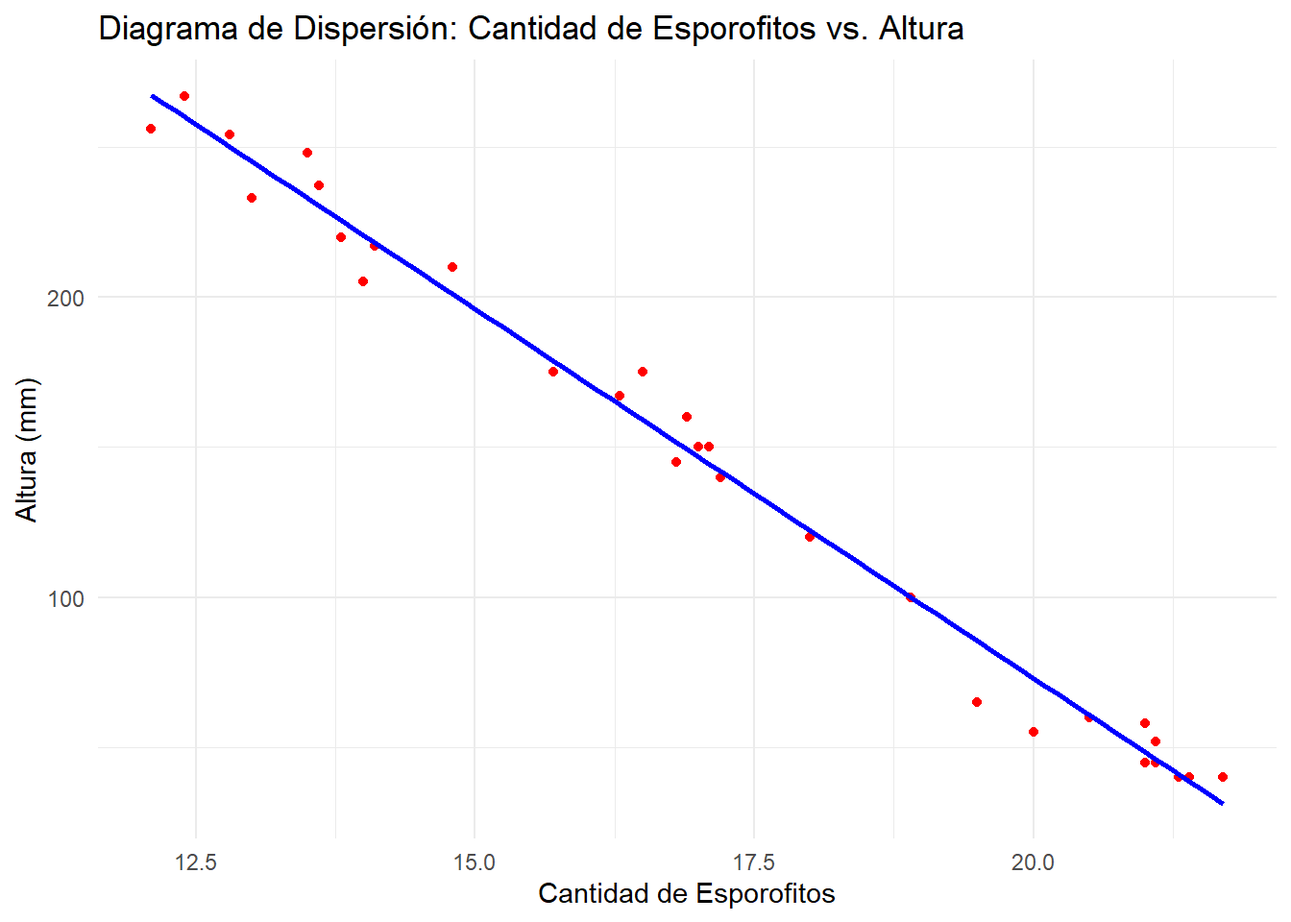
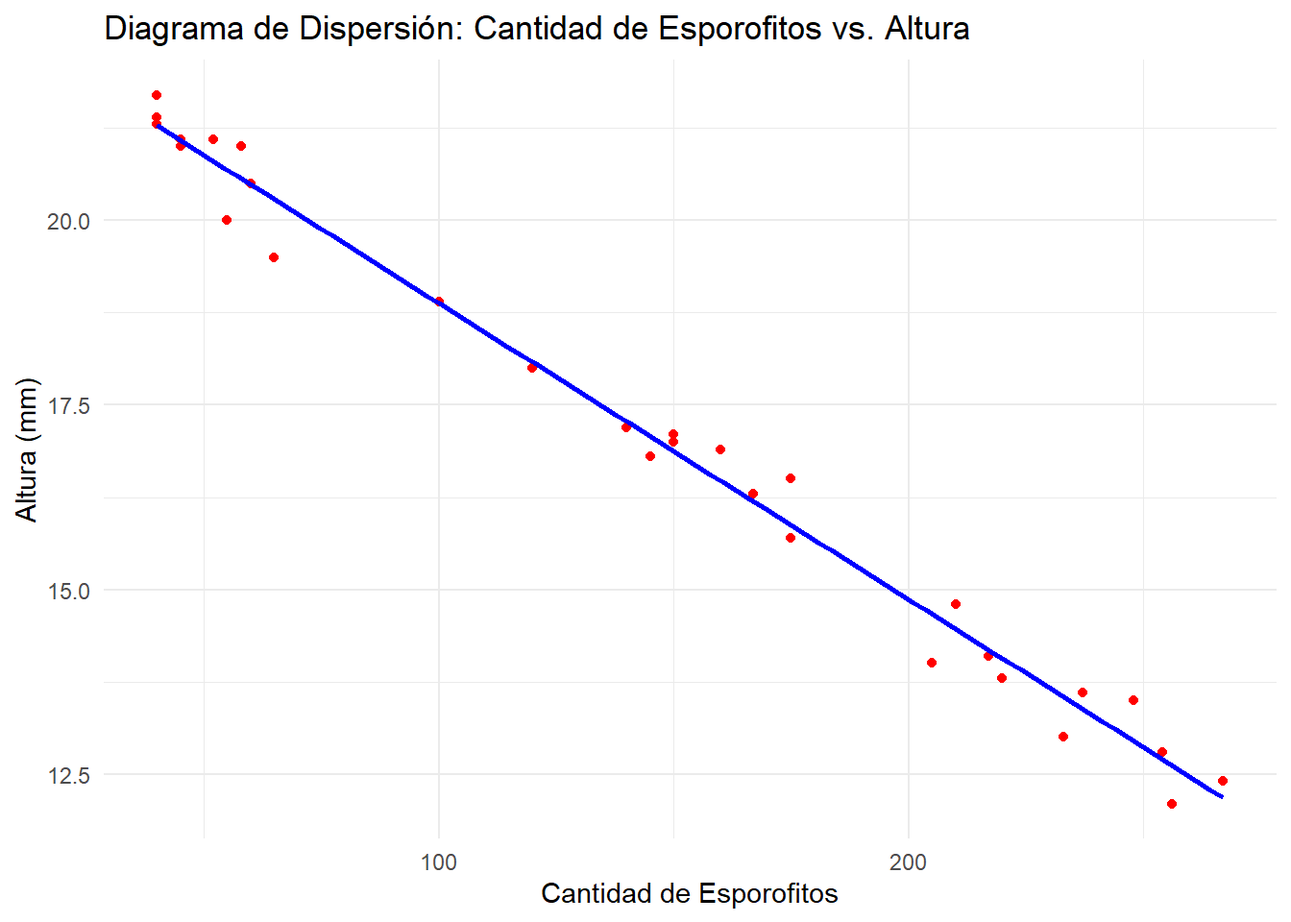
correccion ejemplo de regresión y enlace al repositorio añadidio

diff --git a/_book/regresion_simple.html b/_book/regresion_simple.html
@@ -601,7 +601,7 @@ pre > code.sourceCode > span > a:first-child::before { text-decoration: underlin
 <p>El presente ejemplo práctico expone el procedimiento para realizar un análisis de regresión lineal simple utilizando un conjunto de datos experimentales sobre esporofitos. Los datos fueron recolectados en el laboratorio de cultivo de tejidos de la Facultad de Agronomía de la Universidad de San Carlos de Guatemala, en el marco de un estudio enfocado en la reproducción in vitro del helecho conocido como calahuala (<em>Phlebodium pseudoaureum</em> (Cav.) Lellinger).</p>
 <p>En el experimento, se midió la altura de cada esporofito y se registró la cantidad de esporofitos germinados en 30 frascos, todos ellos cultivados en medio Murashige y Skoog. La información analizada corresponde a los resultados obtenidos bajo estas condiciones controladas. Este análisis toma como referencia la investigación de Rosales Castillo (2005), quien desarrolló un protocolo de micropropagación de calahuala empleando tres tipos de explantes y diferentes medios de cultivo in vitro.</p>
 <p>El objetivo principal de este análisis es evaluar la relación entre la cantidad de esporofitos germinados (variable independiente) y la altura de los esporofitos (variable dependiente), empleando la regresión lineal simple como herramienta estadística. Además de ajustar un modelo que describa esta relación, se busca verificar rigurosamente los supuestos estadísticos que garantizan la validez de las inferencias obtenidas.</p>
-<p><strong>Acceso a recursos:</strong> El script completo con los ejemplos desarrollados y la base de datos sobre esporofitos están disponibles para su consulta y descarga en el siguiente repositorio: <code>[ADJUNTAR ACA EL ENLACE AL REPOSITORIO]</code></p>
+<p><strong>Acceso a recursos:</strong> El script completo con los ejemplos desarrollados y la base de datos sobre esporofitos están disponibles para su consulta y descarga en el siguiente repositorio: <a href="https://github.com/Ludwing-MJ/Reg_Lineal_EJ.git" class="uri">https://github.com/Ludwing-MJ/Reg_Lineal_EJ.git</a></p>
 </section>
 <section id="preparación-del-entorno-en-r" class="level2" data-number="20.3">
 <h2 data-number="20.3" class="anchored" data-anchor-id="preparación-del-entorno-en-r"><span class="header-section-number">20.3</span> Preparación del Entorno en R</h2>
@@ -681,15 +681,15 @@ pre > code.sourceCode > span > a:first-child::before { text-decoration: underlin
 <span id="cb10-2"><a href="#cb10-2" aria-hidden="true" tabindex="-1"></a>datos_esporofitos <span class="ot">&lt;-</span> <span class="fu">na.omit</span>(datos_esporofitos)</span>
 <span id="cb10-3"><a href="#cb10-3" aria-hidden="true" tabindex="-1"></a></span>
 <span id="cb10-4"><a href="#cb10-4" aria-hidden="true" tabindex="-1"></a><span class="co"># Renombrar columnas para facilitar el análisis (si es necesario)</span></span>
-<span id="cb10-5"><a href="#cb10-5" aria-hidden="true" tabindex="-1"></a><span class="fu">names</span>(datos_esporofitos) <span class="ot">&lt;-</span> <span class="fu">c</span>(<span class="st">"frasco"</span>, <span class="st">"altura"</span>, <span class="st">"cantidad"</span>)</span>
+<span id="cb10-5"><a href="#cb10-5" aria-hidden="true" tabindex="-1"></a><span class="fu">names</span>(datos_esporofitos) <span class="ot">&lt;-</span> <span class="fu">c</span>(<span class="st">"frasco"</span>, <span class="st">"cantidad"</span>, <span class="st">"altura"</span>)</span>
 <span id="cb10-6"><a href="#cb10-6" aria-hidden="true" tabindex="-1"></a></span>
 <span id="cb10-7"><a href="#cb10-7" aria-hidden="true" tabindex="-1"></a><span class="co"># Verificar la estructura final de los datos</span></span>
 <span id="cb10-8"><a href="#cb10-8" aria-hidden="true" tabindex="-1"></a><span class="fu">str</span>(datos_esporofitos)</span></code><button title="Copiar al portapapeles" class="code-copy-button"><i class="bi"></i></button></pre></div>
 <div class="cell-output cell-output-stdout">
 <pre><code>tibble [30 × 3] (S3: tbl_df/tbl/data.frame)
  $ frasco  : num [1:30] 1 2 3 4 5 6 7 8 9 10 ...
- $ altura  : num [1:30] 40 45 60 55 58 40 52 65 45 40 ...
- $ cantidad: num [1:30] 21.4 21 20.5 20 21 21.7 21.1 19.5 21.1 21.3 ...</code></pre>
+ $ cantidad: num [1:30] 40 45 60 55 58 40 52 65 45 40 ...
+ $ altura  : num [1:30] 21.4 21 20.5 20 21 21.7 21.1 19.5 21.1 21.3 ...</code></pre>
 </div>
 </div>
 <p>Este conjunto de códigos prepara el entorno para realizar el análisis de regresión lineal con los datos de esporofitos de calahuala, siguiendo las mejores prácticas en análisis de datos con R (Grolemund &amp; Wickham, 2017). La estructura organizada facilita la reproducibilidad del análisis y permite un manejo eficiente de los datos provenientes del estudio de micropropagación realizado por Rosales Castillo (2005).</p>
@@ -705,17 +705,17 @@ pre > code.sourceCode > span > a:first-child::before { text-decoration: underlin
 <div class="sourceCode cell-code" id="cb12"><pre class="sourceCode r code-with-copy"><code class="sourceCode r"><span id="cb12-1"><a href="#cb12-1" aria-hidden="true" tabindex="-1"></a><span class="co"># Calcular estadísticas descriptivas</span></span>
 <span id="cb12-2"><a href="#cb12-2" aria-hidden="true" tabindex="-1"></a>descripcion <span class="ot">&lt;-</span> <span class="fu">describe</span>(datos_esporofitos)</span>
 <span id="cb12-3"><a href="#cb12-3" aria-hidden="true" tabindex="-1"></a></span>
-<span id="cb12-4"><a href="#cb12-4" aria-hidden="true" tabindex="-1"></a><span class="co"># Imprimir las estadísticas descriptivas</span></span>
+<span id="cb12-4"><a href="#cb12-4" aria-hidden="true" tabindex="-1"></a><span class="co"># Visualizar las estadísticas descriptivas</span></span>
 <span id="cb12-5"><a href="#cb12-5" aria-hidden="true" tabindex="-1"></a><span class="fu">print</span>(descripcion)</span></code><button title="Copiar al portapapeles" class="code-copy-button"><i class="bi"></i></button></pre></div>
 <div class="cell-output cell-output-stdout">
 <pre><code>         vars  n  mean    sd median trimmed    mad  min   max range  skew
 frasco      1 30  15.5  8.80  15.50   15.50  11.12  1.0  30.0  29.0  0.00
-altura      2 30 144.3 78.95 150.00  143.00 124.54 40.0 267.0 227.0 -0.01
-cantidad    3 30  17.1  3.19  16.95   17.14   4.60 12.1  21.7   9.6  0.00
+cantidad    2 30 144.3 78.95 150.00  143.00 124.54 40.0 267.0 227.0 -0.01
+altura      3 30  17.1  3.19  16.95   17.14   4.60 12.1  21.7   9.6  0.00
          kurtosis    se
 frasco      -1.32  1.61
-altura      -1.53 14.41
-cantidad    -1.48  0.58</code></pre>
+cantidad    -1.53 14.41
+altura      -1.48  0.58</code></pre>
 </div>
 </div>
 <p>La función <code>describe()</code> proporciona las siguientes estadísticas para cada variable:</p>
@@ -744,7 +744,7 @@ cantidad    -1.48  0.58</code></pre>
 <div class="cell">
 <div class="sourceCode cell-code" id="cb14"><pre class="sourceCode r code-with-copy"><code class="sourceCode r"><span id="cb14-1"><a href="#cb14-1" aria-hidden="true" tabindex="-1"></a><span class="co"># Histograma de la altura de los esporofitos</span></span>
 <span id="cb14-2"><a href="#cb14-2" aria-hidden="true" tabindex="-1"></a><span class="fu">ggplot</span>(datos_esporofitos, <span class="fu">aes</span>(<span class="at">x =</span> altura)) <span class="sc">+</span></span>
-<span id="cb14-3"><a href="#cb14-3" aria-hidden="true" tabindex="-1"></a>  <span class="fu">geom_histogram</span>(<span class="at">binwidth =</span> <span class="dv">15</span>, <span class="at">fill =</span> <span class="st">"skyblue"</span>, <span class="at">color =</span> <span class="st">"black"</span>) <span class="sc">+</span></span>
+<span id="cb14-3"><a href="#cb14-3" aria-hidden="true" tabindex="-1"></a>  <span class="fu">geom_histogram</span>(<span class="at">binwidth =</span> <span class="dv">1</span>, <span class="at">fill =</span> <span class="st">"skyblue"</span>, <span class="at">color =</span> <span class="st">"black"</span>) <span class="sc">+</span></span>
 <span id="cb14-4"><a href="#cb14-4" aria-hidden="true" tabindex="-1"></a>  <span class="fu">labs</span>(<span class="at">title =</span> <span class="st">"Histograma de la Altura de los Esporofitos"</span>,</span>
 <span id="cb14-5"><a href="#cb14-5" aria-hidden="true" tabindex="-1"></a>       <span class="at">x =</span> <span class="st">"Altura (mm)"</span>,</span>
 <span id="cb14-6"><a href="#cb14-6" aria-hidden="true" tabindex="-1"></a>       <span class="at">y =</span> <span class="st">"Frecuencia"</span>) <span class="sc">+</span></span>
@@ -758,7 +758,7 @@ cantidad    -1.48  0.58</code></pre>
 </div>
 <div class="sourceCode cell-code" id="cb15"><pre class="sourceCode r code-with-copy"><code class="sourceCode r"><span id="cb15-1"><a href="#cb15-1" aria-hidden="true" tabindex="-1"></a><span class="co"># Histograma de la cantidad de esporofitos germinados</span></span>
 <span id="cb15-2"><a href="#cb15-2" aria-hidden="true" tabindex="-1"></a><span class="fu">ggplot</span>(datos_esporofitos, <span class="fu">aes</span>(<span class="at">x =</span> cantidad)) <span class="sc">+</span></span>
-<span id="cb15-3"><a href="#cb15-3" aria-hidden="true" tabindex="-1"></a>  <span class="fu">geom_histogram</span>(<span class="at">binwidth =</span> <span class="dv">1</span>, <span class="at">fill =</span> <span class="st">"lightgreen"</span>, <span class="at">color =</span> <span class="st">"black"</span>) <span class="sc">+</span></span>
+<span id="cb15-3"><a href="#cb15-3" aria-hidden="true" tabindex="-1"></a>  <span class="fu">geom_histogram</span>(<span class="at">binwidth =</span> <span class="dv">15</span>, <span class="at">fill =</span> <span class="st">"lightgreen"</span>, <span class="at">color =</span> <span class="st">"black"</span>) <span class="sc">+</span></span>
 <span id="cb15-4"><a href="#cb15-4" aria-hidden="true" tabindex="-1"></a>  <span class="fu">labs</span>(<span class="at">title =</span> <span class="st">"Histograma de la Cantidad de Esporofitos Germinados"</span>,</span>
 <span id="cb15-5"><a href="#cb15-5" aria-hidden="true" tabindex="-1"></a>       <span class="at">x =</span> <span class="st">"Cantidad de Esporofitos"</span>,</span>
 <span id="cb15-6"><a href="#cb15-6" aria-hidden="true" tabindex="-1"></a>       <span class="at">y =</span> <span class="st">"Frecuencia"</span>) <span class="sc">+</span></span>
@@ -822,7 +822,7 @@ cantidad    -1.48  0.58</code></pre>
 <div class="sourceCode cell-code" id="cb19"><pre class="sourceCode r code-with-copy"><code class="sourceCode r"><span id="cb19-1"><a href="#cb19-1" aria-hidden="true" tabindex="-1"></a><span class="co"># Resumen del modelo</span></span>
 <span id="cb19-2"><a href="#cb19-2" aria-hidden="true" tabindex="-1"></a>resumen_modelo <span class="ot">&lt;-</span> <span class="fu">summary</span>(modelo)</span>
 <span id="cb19-3"><a href="#cb19-3" aria-hidden="true" tabindex="-1"></a></span>
-<span id="cb19-4"><a href="#cb19-4" aria-hidden="true" tabindex="-1"></a><span class="co"># Imprimir el resumen del modelo</span></span>
+<span id="cb19-4"><a href="#cb19-4" aria-hidden="true" tabindex="-1"></a><span class="co"># Visualizar el resumen del modelo</span></span>
 <span id="cb19-5"><a href="#cb19-5" aria-hidden="true" tabindex="-1"></a><span class="fu">print</span>(resumen_modelo)</span></code><button title="Copiar al portapapeles" class="code-copy-button"><i class="bi"></i></button></pre></div>
 <div class="cell-output cell-output-stdout">
 <pre><code>
@@ -831,16 +831,16 @@ lm(formula = altura ~ cantidad, data = datos_esporofitos)
 
 Residuals:
      Min       1Q   Median       3Q      Max 
--20.3681  -3.7261  -0.4503   6.4108  15.8646 
+-0.78523 -0.15056  0.01664  0.22403  0.62850 
 
 Coefficients:
-            Estimate Std. Error t value Pr(&gt;|t|)    
-(Intercept) 564.8555     9.4053   60.06   &lt;2e-16 ***
-cantidad    -24.5891     0.5409  -45.46   &lt;2e-16 ***
+              Estimate Std. Error t value Pr(&gt;|t|)    
+(Intercept) 22.8933399  0.1446248  158.29   &lt;2e-16 ***
+cantidad    -0.0401248  0.0008826  -45.46   &lt;2e-16 ***
 ---
 Signif. codes:  0 '***' 0.001 '**' 0.01 '*' 0.05 '.' 0.1 ' ' 1
 
-Residual standard error: 9.29 on 28 degrees of freedom
+Residual standard error: 0.3753 on 28 degrees of freedom
 Multiple R-squared:  0.9866,    Adjusted R-squared:  0.9862 
 F-statistic:  2067 on 1 and 28 DF,  p-value: &lt; 2.2e-16</code></pre>
 </div>
@@ -863,14 +863,14 @@ F-statistic:  2067 on 1 and 28 DF,  p-value: &lt; 2.2e-16</code></pre>
 </section>
 <section id="interpretación-del-modelo-de-regresión-lineal" class="level3" data-number="20.5.3">
 <h3 data-number="20.5.3" class="anchored" data-anchor-id="interpretación-del-modelo-de-regresión-lineal"><span class="header-section-number">20.5.3</span> Interpretación del Modelo de Regresión Lineal</h3>
-<p><strong>El modelo ajustado es:</strong> <code>altura=564.86−24.59×cantidad</code></p>
+<p><strong>El modelo ajustado es:</strong> <code>altura=22.89−0.04×cantidad</code></p>
 <p><strong>Donde:</strong></p>
 <ol type="1">
-<li><p><strong>Intercepto (</strong>β0=564.86<strong>):</strong> El intercepto representa la altura estimada de los esporofitos cuando la cantidad de esporofitos germinados es cero. Matemáticamente, si no hubiera esporofitos germinados en un frasco, la altura estimada sería de 564.86 mm. Sin embargo, en el contexto biológico, este valor puede carecer de sentido práctico, ya que no es realista tener altura sin esporofitos germinados, pero es necesario para la ecuación del modelo (Kutner et al., 2005).</p></li>
-<li><p><strong>Pendiente (</strong>β1=−24.59<strong>):</strong> La pendiente indica que, por cada esporofito germinado adicional en el frasco, la altura promedio de los esporofitos disminuye en 24.59 mm. Este valor negativo sugiere una relación inversa entre la cantidad de esporofitos germinados y la altura de los esporofitos: a mayor cantidad de esporofitos germinados, menor es la altura promedio de los mismos.</p></li>
+<li><p><strong>Intercepto (</strong>β0=22.89<strong>):</strong> El intercepto representa la altura estimada de los esporofitos cuando la cantidad de esporofitos germinados es cero. Matemáticamente, si no hubiera esporofitos germinados en un frasco, la altura estimada sería de 22.89 mm. Sin embargo, en el contexto biológico, este valor puede carecer de sentido práctico, ya que no es realista tener altura sin esporofitos germinados, pero es necesario para la ecuación del modelo (Kutner et al., 2005).</p></li>
+<li><p><strong>Pendiente (</strong>β1=−0.04<strong>):</strong> La pendiente indica que, por cada esporofito germinado adicional en el frasco, la altura promedio de los esporofitos disminuye en 0.04 mm. Este valor negativo sugiere una relación inversa entre la cantidad de esporofitos germinados y la altura de los esporofitos: a mayor cantidad de esporofitos germinados, menor es la altura promedio de los mismos.</p></li>
 <li><p><strong>Significancia estadística de los coeficientes:</strong> Ambos coeficientes (intercepto y pendiente) presentan valores p menores a 2e-16, lo que indica que son altamente significativos desde el punto de vista estadístico. Esto significa que existe evidencia suficiente para afirmar que la cantidad de esporofitos germinados es un predictor relevante de la altura de los esporofitos en este experimento (Montgomery et al., 2012).</p></li>
 <li><p><strong>Coeficiente de determinación (</strong>R2=0.9866<strong>):</strong> El valor de R2 es 0.9866, lo que indica que el 98.66% de la variabilidad observada en la altura de los esporofitos es explicada por la cantidad de esporofitos germinados. Este valor extremadamente alto sugiere que el modelo ajustado tiene un excelente poder explicativo para estos datos.</p></li>
-<li><p><strong>Error estándar de los residuos:</strong> El error estándar de los residuos es 9.29, lo que indica que, en promedio, las predicciones del modelo difieren de los valores observados en aproximadamente 9.29 mm.</p></li>
+<li><p><strong>Error estándar de los residuos:</strong> El error estándar de los residuos es 0.3753, lo que indica que, en promedio, las predicciones del modelo difieren de los valores observados en aproximadamente 0.3753 mm.</p></li>
 <li><p><strong>Estadístico F y valor p global:</strong> El estadístico F es 2067 con un valor p menor a 2.2e-16, lo que confirma que el modelo en su conjunto es significativo y que la variable independiente (cantidad) contribuye de manera significativa a explicar la variabilidad en la altura.</p></li>
 </ol>
 </section>
@@ -910,11 +910,11 @@ F-statistic:  2067 on 1 and 28 DF,  p-value: &lt; 2.2e-16</code></pre>
     Durbin-Watson test
 
 data:  modelo
-DW = 2.6795, p-value = 0.9618
+DW = 2.7293, p-value = 0.9725
 alternative hypothesis: true autocorrelation is greater than 0</code></pre>
 </div>
 </div>
-<p>Un valor p alto (mayor al nivel de significancia que en investigación agricola normalmente es 0.05) en la prueba indica que hay evidencia de independencia de los residuos.</p>
+<p>Un valor p alto (mayor al nivel de significancia, que en investigación agricola normalmente es 0.05) en la prueba indica que hay evidencia de independencia de los residuos.</p>
 </section>
 <section id="homocedasticidad-igualdad-de-varianzas" class="level3" data-number="20.6.3">
 <h3 data-number="20.6.3" class="anchored" data-anchor-id="homocedasticidad-igualdad-de-varianzas"><span class="header-section-number">20.6.3</span> Homocedasticidad (igualdad de varianzas)</h3>
@@ -927,10 +927,10 @@ alternative hypothesis: true autocorrelation is greater than 0</code></pre>
     studentized Breusch-Pagan test
 
 data:  modelo
-BP = 0.25903, df = 1, p-value = 0.6108</code></pre>
+BP = 0.095527, df = 1, p-value = 0.7573</code></pre>
 </div>
 </div>
-<p>Un valor p alto (mayor al nivel de significancia que en investigación agricola normalmente es 0.05) en la prueba indica que no hay evidencia de heterocedasticidad.</p>
+<p>Un valor p alto (mayor al nivel de significancia, que en investigación agricola normalmente es 0.05) en la prueba indica que no hay evidencia de heterocedasticidad.</p>
 </section>
 <section id="normalidad-de-los-residuos" class="level3" data-number="20.6.4">
 <h3 data-number="20.6.4" class="anchored" data-anchor-id="normalidad-de-los-residuos"><span class="header-section-number">20.6.4</span> Normalidad de los residuos</h3>
@@ -953,7 +953,7 @@ BP = 0.25903, df = 1, p-value = 0.6108</code></pre>
     Shapiro-Wilk normality test
 
 data:  modelo$residuals
-W = 0.96712, p-value = 0.4636</code></pre>
+W = 0.95651, p-value = 0.2516</code></pre>
 </div>
 </div>
 <p>Si los puntos del gráfico Q-Q se alinean aproximadamente sobre la línea y el valor p de la prueba es mayor a 0.05, se puede asumir normalidad de los residuos (Kutner et al., 2005).</p>
@@ -971,17 +971,17 @@ W = 0.96712, p-value = 0.4636</code></pre>
 <p>Para generar predicciones, se utiliza la función <code>predict()</code> de R, la cual permite estimar el valor de la variable dependiente (altura) para nuevos valores de la variable independiente (cantidad). A continuación se muestra cómo crear un conjunto de nuevos datos y obtener las predicciones correspondientes:</p>
 <div class="cell">
 <div class="sourceCode cell-code" id="cb29"><pre class="sourceCode r code-with-copy"><code class="sourceCode r"><span id="cb29-1"><a href="#cb29-1" aria-hidden="true" tabindex="-1"></a><span class="co"># Crear nuevos datos para predicción</span></span>
-<span id="cb29-2"><a href="#cb29-2" aria-hidden="true" tabindex="-1"></a>nuevos_datos <span class="ot">&lt;-</span> <span class="fu">data.frame</span>(<span class="at">cantidad =</span> <span class="fu">c</span>(<span class="dv">10</span>, <span class="dv">15</span>, <span class="dv">20</span>))</span>
+<span id="cb29-2"><a href="#cb29-2" aria-hidden="true" tabindex="-1"></a>nuevos_datos <span class="ot">&lt;-</span> <span class="fu">data.frame</span>(<span class="at">cantidad =</span> <span class="fu">c</span>(<span class="dv">25</span>, <span class="dv">50</span>, <span class="dv">75</span>))</span>
 <span id="cb29-3"><a href="#cb29-3" aria-hidden="true" tabindex="-1"></a></span>
 <span id="cb29-4"><a href="#cb29-4" aria-hidden="true" tabindex="-1"></a><span class="co"># Realizar predicciones de altura</span></span>
 <span id="cb29-5"><a href="#cb29-5" aria-hidden="true" tabindex="-1"></a>predicciones <span class="ot">&lt;-</span> <span class="fu">predict</span>(modelo, <span class="at">newdata =</span> nuevos_datos)</span>
 <span id="cb29-6"><a href="#cb29-6" aria-hidden="true" tabindex="-1"></a><span class="fu">print</span>(predicciones)</span></code><button title="Copiar al portapapeles" class="code-copy-button"><i class="bi"></i></button></pre></div>
 <div class="cell-output cell-output-stdout">
-<pre><code>        1         2         3 
-318.96456 196.01907  73.07358 </code></pre>
+<pre><code>       1        2        3 
+21.89022 20.88710 19.88398 </code></pre>
 </div>
 </div>
-<p>En este ejemplo, se predice la altura de los esporofitos para frascos con 10, 15 y 20 esporofitos germinados. El resultado será un vector con los valores estimados de altura para cada caso.</p>
+<p>En este ejemplo, se predice la altura de los esporofitos para frascos con 25, 50 y 75 esporofitos germinados. El resultado será un vector con los valores estimados de altura para cada caso.</p>
 </section>
 <section id="intervalos-de-confianza-y-predicción" class="level3" data-number="20.7.2">
 <h3 data-number="20.7.2" class="anchored" data-anchor-id="intervalos-de-confianza-y-predicción"><span class="header-section-number">20.7.2</span> Intervalos de Confianza y Predicción</h3>
@@ -998,10 +998,10 @@ W = 0.96712, p-value = 0.4636</code></pre>
 <span id="cb31-4"><a href="#cb31-4" aria-hidden="true" tabindex="-1"></a>                                <span class="at">interval =</span> <span class="st">"confidence"</span>)</span>
 <span id="cb31-5"><a href="#cb31-5" aria-hidden="true" tabindex="-1"></a><span class="fu">print</span>(intervalos_confianza)</span></code><button title="Copiar al portapapeles" class="code-copy-button"><i class="bi"></i></button></pre></div>
 <div class="cell-output cell-output-stdout">
-<pre><code>        fit       lwr       upr
-1 318.96456 310.36148 327.56765
-2 196.01907 191.83552 200.20262
-3  73.07358  68.34372  77.80344</code></pre>
+<pre><code>       fit      lwr      upr
+1 21.89022 21.63288 22.14756
+2 20.88710 20.66627 21.10793
+3 19.88398 19.69584 20.07212</code></pre>
 </div>
 <div class="sourceCode cell-code" id="cb33"><pre class="sourceCode r code-with-copy"><code class="sourceCode r"><span id="cb33-1"><a href="#cb33-1" aria-hidden="true" tabindex="-1"></a><span class="co"># Intervalos de predicción para valores individuales</span></span>
 <span id="cb33-2"><a href="#cb33-2" aria-hidden="true" tabindex="-1"></a>intervalos_prediccion <span class="ot">&lt;-</span> <span class="fu">predict</span>(modelo, </span>
@@ -1009,10 +1009,10 @@ W = 0.96712, p-value = 0.4636</code></pre>
 <span id="cb33-4"><a href="#cb33-4" aria-hidden="true" tabindex="-1"></a>                                 <span class="at">interval =</span> <span class="st">"prediction"</span>)</span>
 <span id="cb33-5"><a href="#cb33-5" aria-hidden="true" tabindex="-1"></a><span class="fu">print</span>(intervalos_prediccion)</span></code><button title="Copiar al portapapeles" class="code-copy-button"><i class="bi"></i></button></pre></div>
 <div class="cell-output cell-output-stdout">
-<pre><code>        fit      lwr       upr
-1 318.96456 298.0805 339.84867
-2 196.01907 176.5349 215.50329
-3  73.07358  53.4648  92.68236</code></pre>
+<pre><code>       fit      lwr      upr
+1 21.89022 21.07957 22.70087
+2 20.88710 20.08729 21.68691
+3 19.88398 19.09257 20.67539</code></pre>
 </div>
 </div>
 <p>Los resultados mostrarán, para cada valor de cantidad, la predicción puntual, el límite inferior y el límite superior del intervalo correspondiente.</p>
@@ -1022,10 +1022,9 @@ W = 0.96712, p-value = 0.4636</code></pre>
 <section id="conclusiones" class="level2" data-number="20.8">
 <h2 data-number="20.8" class="anchored" data-anchor-id="conclusiones"><span class="header-section-number">20.8</span> Conclusiones</h2>
 <p>El análisis de regresión lineal simple realizado para evaluar la relación entre la cantidad de esporofitos germinados y la altura de los esporofitos en el experimento de micropropagación de calahuala permitió obtener resultados estadísticamente robustos y relevantes. A continuación, se presentan las conclusiones principales del estudio, considerando que el modelo ajustado cumplió con todos los supuestos fundamentales de la regresión lineal (linealidad, independencia, homocedasticidad y normalidad de los residuos).</p>
-<p>En primer lugar, se identificó una relación lineal negativa y significativa entre la cantidad de esporofitos germinados y la altura de los esporofitos. Específicamente, el modelo estimó que por cada esporofito germinado adicional, la altura promedio de los esporofitos disminuye en aproximadamente 24.59 mm. Este hallazgo sugiere que, bajo las condiciones experimentales descritas, un mayor número de esporofitos germinados en un frasco se asocia con un menor crecimiento en altura de los mismos, lo que podría estar relacionado con la competencia por recursos en el medio de cultivo (Rosales Castillo, 2005).</p>
+<p>En primer lugar, se identificó una relación lineal negativa y significativa entre la cantidad de esporofitos germinados y la altura de los esporofitos. Específicamente, el modelo estimó que por cada esporofito germinado adicional, la altura promedio de los esporofitos disminuye en aproximadamente 0.04 mm. Este hallazgo sugiere que, bajo las condiciones experimentales descritas, un mayor número de esporofitos germinados en un frasco se asocia con un menor crecimiento en altura de los mismos, lo que podría estar relacionado con la competencia por recursos en el medio de cultivo (Rosales Castillo, 2005).</p>
 <p>El coeficiente de determinación (R2R^2R2) obtenido fue de 0.9866, lo que indica que el modelo explica el 98.66% de la variabilidad observada en la altura de los esporofitos. Este valor refleja un ajuste excelente y respalda la utilidad del modelo para describir y predecir la altura de los esporofitos a partir de la cantidad de esporofitos germinados.</p>
 <p>La verificación de los supuestos del modelo confirmó la validez de las inferencias realizadas. No se detectaron problemas de linealidad, independencia, homocedasticidad ni normalidad de los residuos, lo que refuerza la confiabilidad de los resultados obtenidos (Kutner et al., 2005; Montgomery et al., 2012).</p>
-<p>En síntesis, el análisis realizado demuestra que la cantidad de esporofitos germinados es un factor determinante en la altura de los esporofitos en el contexto experimental evaluado. Estos resultados pueden ser de utilidad para optimizar las condiciones de micropropagación y orientar futuras investigaciones sobre el crecimiento y desarrollo de esporofitos en medios de cultivo in vitro.</p>
 
 
 </section>

diff --git a/_book/regresion_multiple.html b/_book/regresion_multiple.html
@@ -464,14 +464,8 @@ ul.task-list li input[type="checkbox"] {
 </nav>
 <div id="quarto-sidebar-glass" class="quarto-sidebar-collapse-item" data-bs-toggle="collapse" data-bs-target=".quarto-sidebar-collapse-item"></div>
 <!-- margin-sidebar -->
-    <div id="quarto-margin-sidebar" class="sidebar margin-sidebar">
-        <nav id="TOC" role="doc-toc" class="toc-active">
-    <h2 id="toc-title">Tabla de contenidos</h2>
-   
-  <ul>
-  <li><a href="#notas" id="toc-notas" class="nav-link active" data-scroll-target="#notas"><span class="header-section-number">21.1</span> Notas:</a></li>
-  </ul>
-</nav>
+    <div id="quarto-margin-sidebar" class="sidebar margin-sidebar zindex-bottom">
+        
     </div>
 <!-- main -->
 <main class="content" id="quarto-document-content">
@@ -496,13 +490,10 @@ ul.task-list li input[type="checkbox"] {
 </header>
 
 
-<section id="notas" class="level2" data-number="21.1">
-<h2 data-number="21.1" class="anchored" data-anchor-id="notas"><span class="header-section-number">21.1</span> Notas:</h2>
-<p>En esta sección se desarrollará un ejemplo de regresión multiple</p>
-<p>Esta pendiente de finalización y carga</p>
+<p><br>
+</p>
 
 
-</section>
 
 </main> <!-- /main -->
 <script id="quarto-html-after-body" type="application/javascript">
